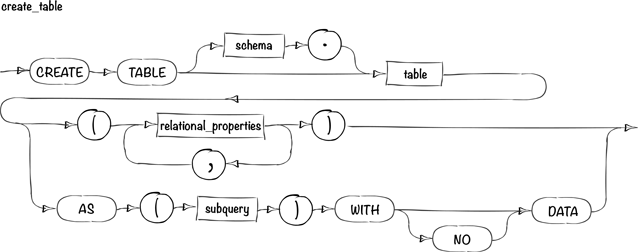
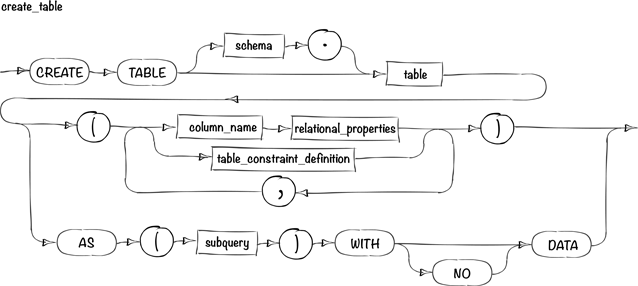
Korrekturen an Syntaxhilfe

diff --git a/src/resources/syntax/create_table.html b/src/resources/syntax/create_table.html
@@ -36,7 +36,9 @@ POSSIBILITY OF SUCH DAMAGE.
             create_table ::=<br />
             <code><kbd>CREATE</kbd> <kbd>TABLE</kbd> [ </code>schema<code> <kbd>.</kbd> ] </code>table<code><br />
                 {<br />
-                <kbd>(</kbd> </code><a href="relational_properties.html">relational_properties</a><code> [ <kbd>,</kbd> </code><a href="relational_properties.html">relational_properties</a><code> ]... <kbd>)</kbd><br />
+                <kbd>(</kbd> { </code>column_name <a href="relational_properties.html">relational_properties</a><code> | </code><a href="table_constraint_definition.html">table_constraint_definition</a><code> }<br/>
+                    [ <kbd>,</kbd> { </code>column_name <a href="relational_properties.html">relational_properties</a><code> | </code><a href="table_constraint_definition.html">table_constraint_definition</a><code> } ]...<br/>
+                <kbd>)</kbd><br />
                 | <kbd>AS</kbd> <kbd>(</kbd> </code><a href="subquery.html">subquery</a><code> <kbd>)</kbd> <kbd>WITH</kbd> [ <kbd>NO</kbd> ] <kbd>DATA</kbd><br />
                 }</code>
         </div>

diff --git a/src/resources/syntax/relational_properties.html b/src/resources/syntax/relational_properties.html
@@ -35,7 +35,7 @@ POSSIBILITY OF SUCH DAMAGE.
         <div class="ebnf">
             relational_properties ::=<br />
             <code>{<br/>
-            </code>column_name datatype<code> [ <kbd>DEFAULT</kbd> </code>expr<code> ] [ </code><a href="inline_constraint.html">inline_constraint</a><code> ]...<br/>
+            </code>datatype<code> [ <kbd>DEFAULT</kbd> </code>expr<code> ] [ </code><a href="inline_constraint.html">inline_constraint</a><code> ]...<br/>
                 | </code><a href="table_constraint_definition.html">table_constraint_definition</a><br/>
             <code>}</code>
         </div>
